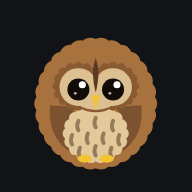
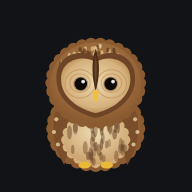
モリフクロウを本物寄りに描き直し(目を小さく、ハート形の顔盤、まだら模様)
Claude-Session: https://claude.ai/code/session_016VAcHiBzAcG93EbvHUCsk9

Changed region(s): [[0.1562, 0.1875, 0.8438, 0.9062]]

diff --git a/sw.js b/sw.js
@@ -3,7 +3,7 @@
 // 一度読み込んだファイルをスマホの中にコピー(キャッシュ)しておきます。
 // 電波があるときは最新版を取りに行き、ないときはコピーを使います。
 
-const CACHE = 'kintore-v8';
+const CACHE = 'kintore-v9';
 const FILES = ['./', './index.html', './style.css', './app.js', './manifest.json', './icon-180.png', './icon-192.png', './icon-512.png', './owl.svg'];
 
 self.addEventListener('install', (e) => {
